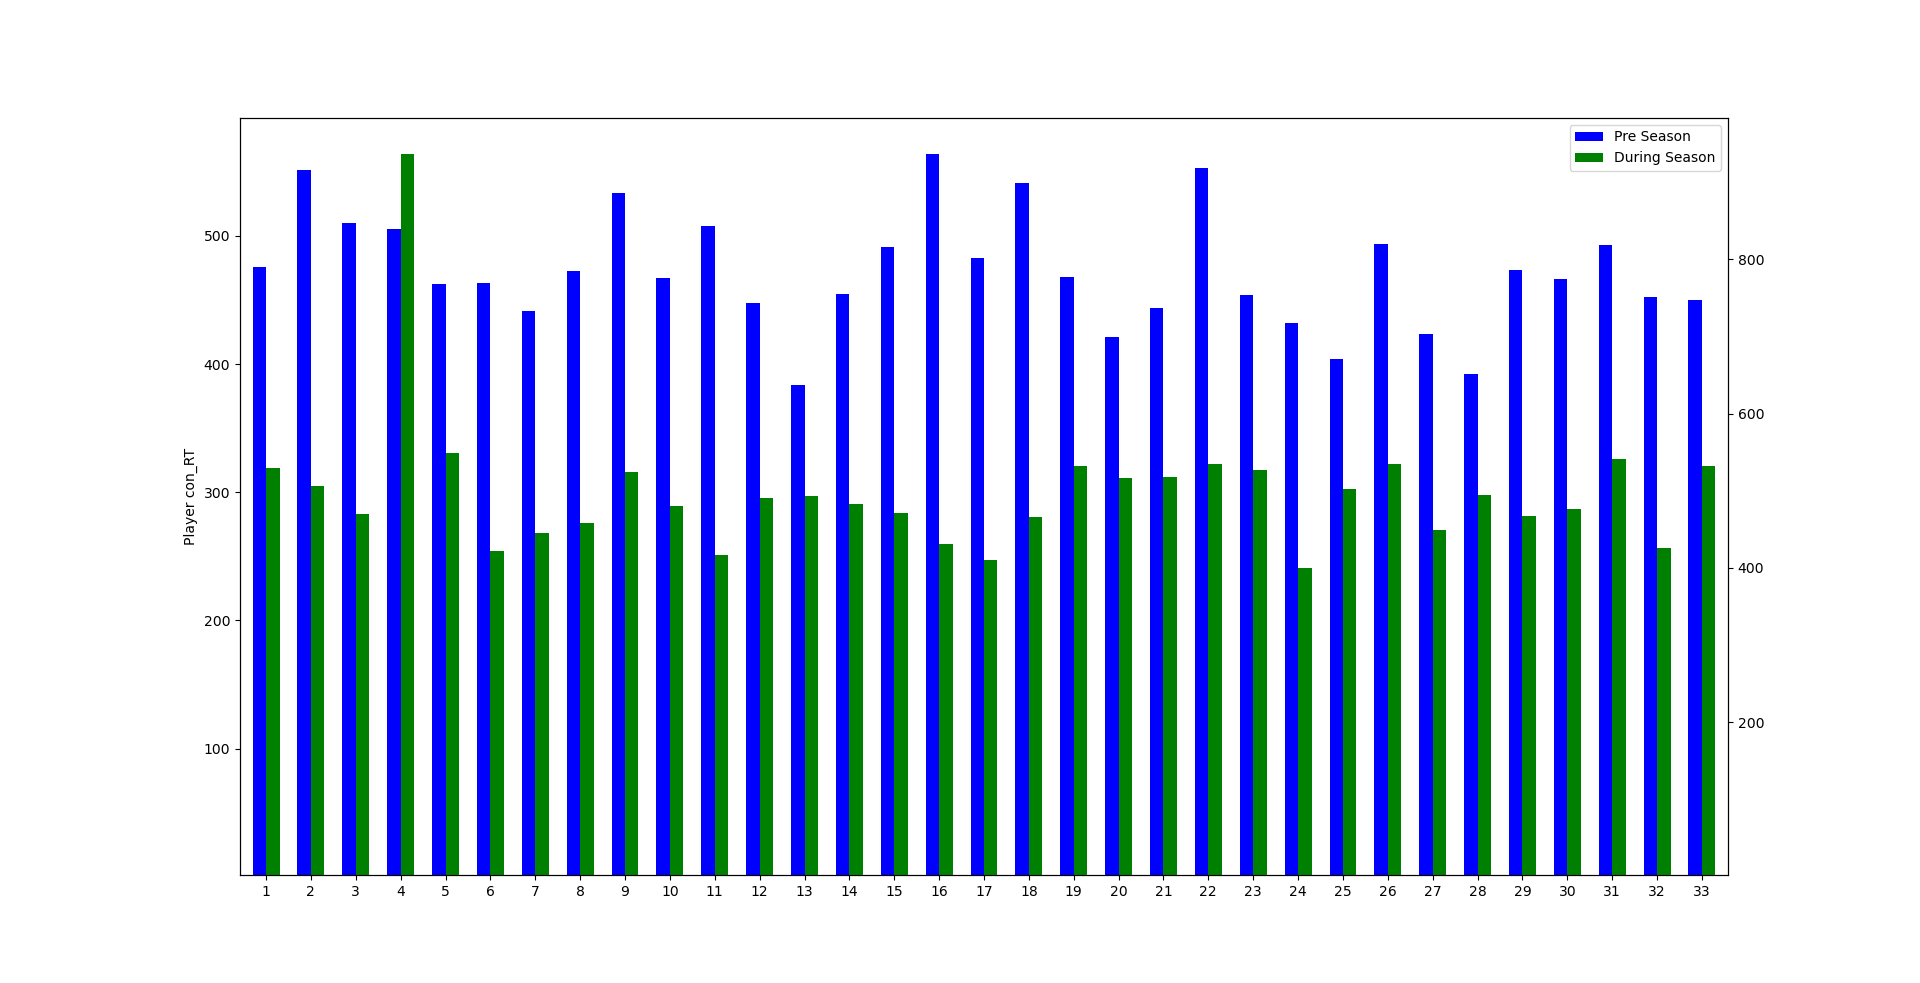
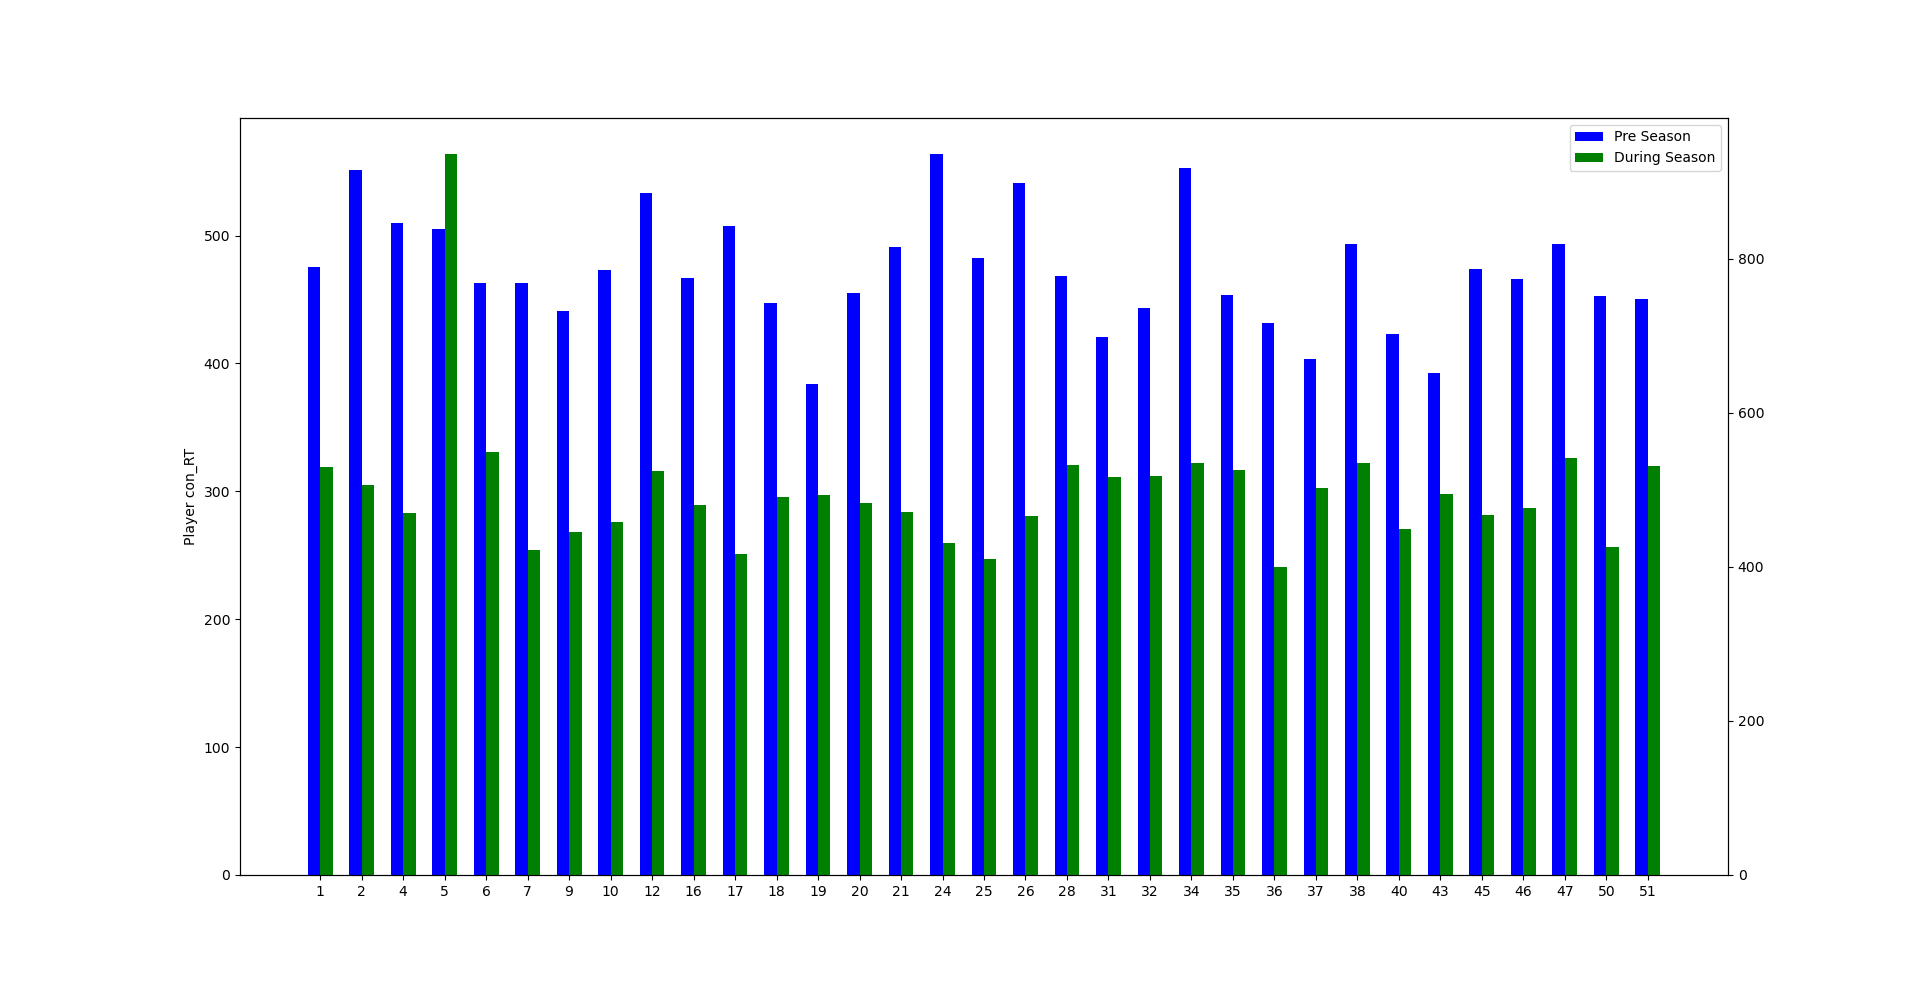
Reset the candidate_id values to reflect their original values.

Changed region(s): [[0.125, 0.1526, 0.5, 0.9156], [0.5312, 0.1526, 0.9062, 0.9156]]

diff --git a/Code/visualizingData.py b/Code/visualizingData.py
@@ -23,4 +23,4 @@ def compareGraph(preSeason, duringSeason, variable):
 preSeason = pandas.read_csv("../Data/Query Results Pre Season.csv")
 duringSeason = pandas.read_csv("../Data/Query Results During Season.csv")
 print(preSeason.columns)
-# compareGraph(preSeason, duringSeason, "")
+compareGraph(preSeason, duringSeason, "correct_percent")
